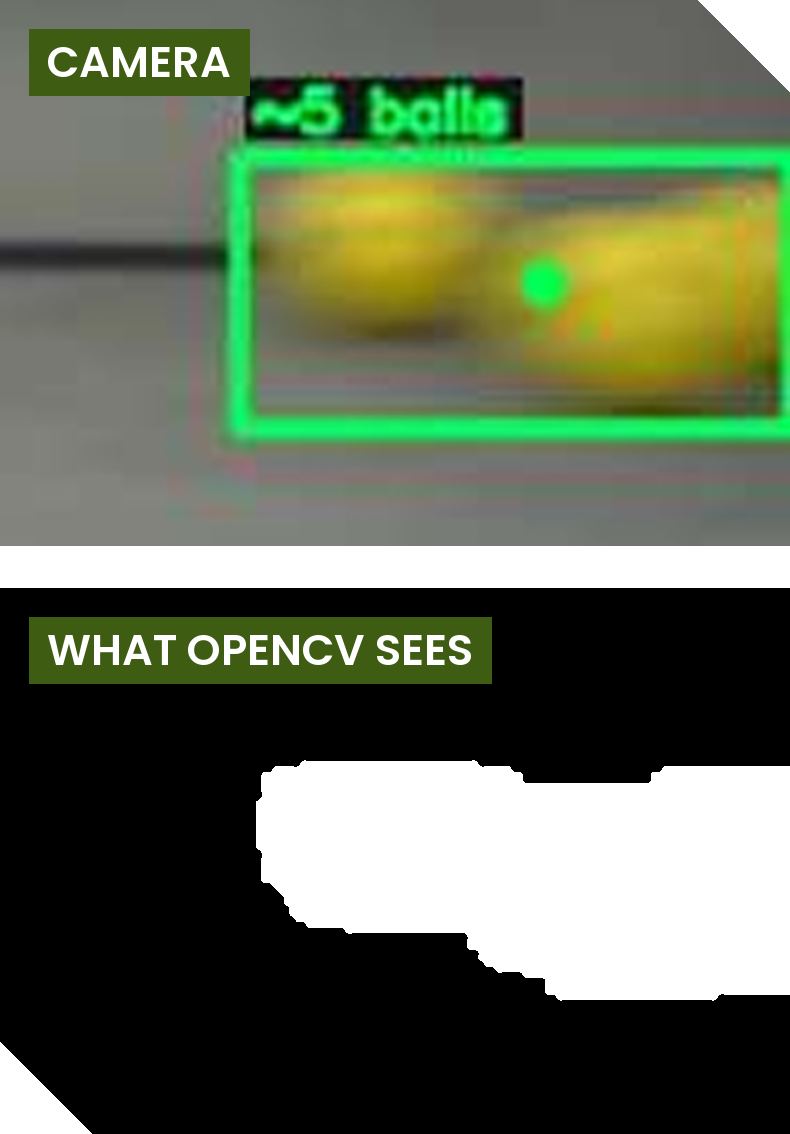
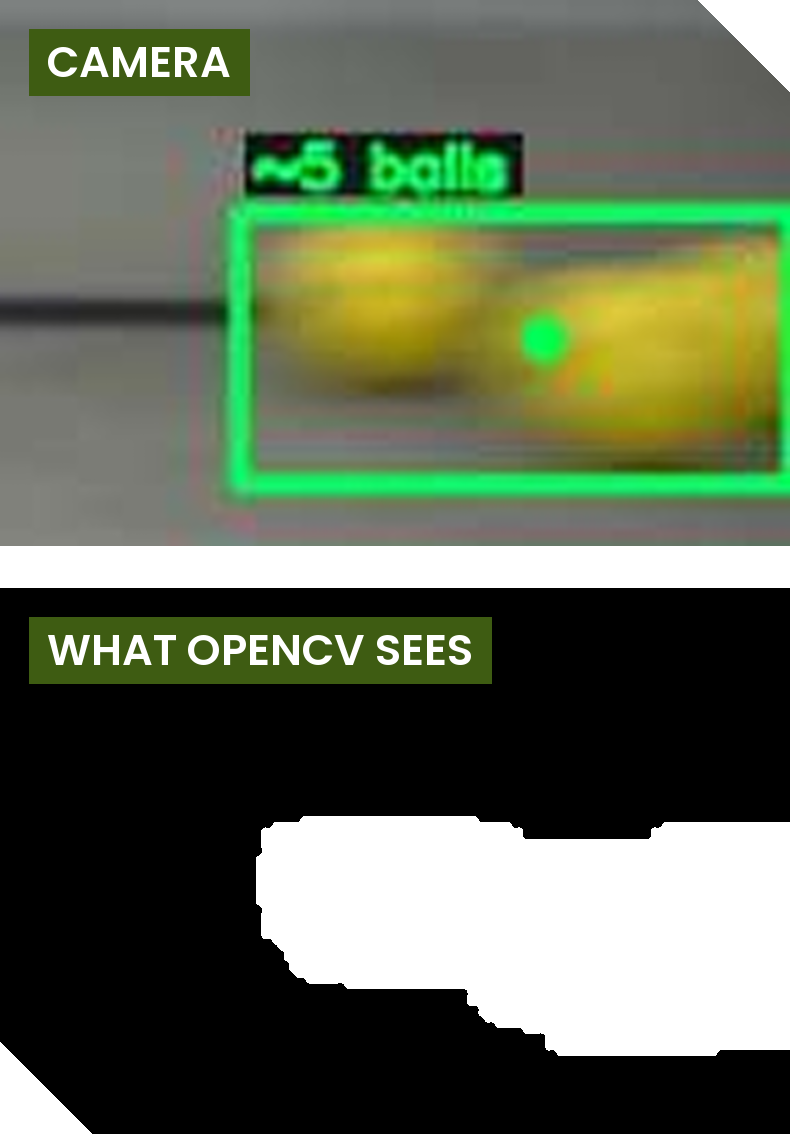
Portfolio Blob Detection: camera vs "what OpenCV sees" panel (tool)
tools/portfolio/vision/pollen_mask_view.py runs the shipped
PollenDetectionPipeline steps (HSV threshold A|B -> open -> close ->
connected components -> area/aspect filter, Config defaults, pixel
tunables x2/3 for the saved 320x427 frame) on
runs/auto_blue9/frames/027.50.jpg, the frame already on the slide.

Zoom = the "~5 balls" clump (x 178-320, y 233-331): its overlay is green,
outside the yellow HSV range, so the mask comes straight from the saved
pixels, no retouching. The "~1 ball" clump is left out: its amber overlay
is inside the yellow range and merges into the mask (1542 px blob is
label + box, not ball). Kept component in zoom: 3367 px.

The pipeline does not detect edges; the slide's old "luminance of each
region ... detect edges" text describes the disabled tools/BlobDetection.

Changed region(s): [[0.0, 0.0617, 1.0, 0.463], [0.3038, 0.6481, 1.0, 0.9568], [0.5468, 0.0, 0.6987, 0.0309]]

diff --git a/tools/portfolio/vision/pollen_mask_view.py b/tools/portfolio/vision/pollen_mask_view.py
@@ -41,7 +41,7 @@ DPI = 600
 TAG_BG, TAG_FG, CREAM = (62, 92, 18), (255, 255, 255), (251, 248, 230)
 
 # Zoom region in saved-frame pixels: the "~5 balls" clump, right of the amber "~1 ball" box.
-ZOOM_X0, ZOOM_X1, ZOOM_YC = 178, 320, 292
+ZOOM_X0, ZOOM_X1, ZOOM_YC = 178, 320, 282
 
 
 def pipeline_mask(rgb):
